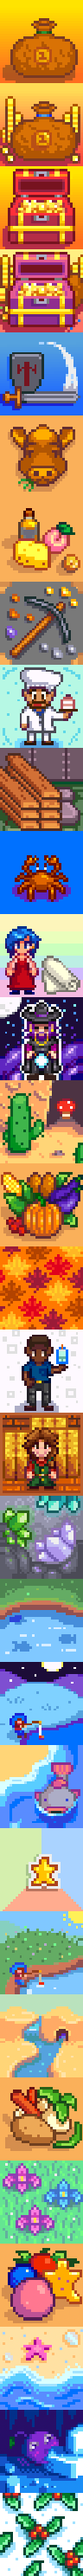
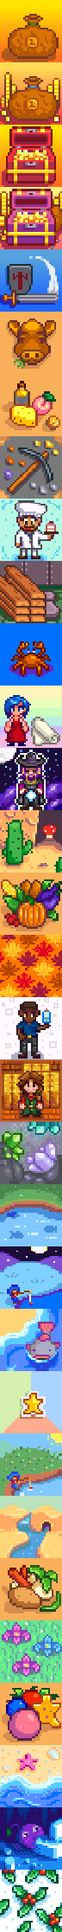
QA visual changes + escaping regex symbols in query string

diff --git a/src/css/bundleIcons.css b/src/css/bundleIcons.css
@@ -1,6 +1,6 @@
 .bundle-icon {
-    width: 96px;
-    height: 96px;
+    width: 72px;
+    height: 72px;
     flex-shrink: 0;
 
     background: url('../assets/bundle_icons.png');
@@ -8,125 +8,125 @@
 }
 
 .bg-2500_Bundle {
-    background-position-y: -0;
+    background-position-y: -0px;
 }
 
 .bg-5000_Bundle {
-    background-position-y: -96px;
+    background-position-y: -72px;
 }
 
 .bg-10000_Bundle {
-    background-position-y: -192px;
+    background-position-y: -144px;
 }
 
 .bg-25000_Bundle {
-    background-position-y: -288px;
+    background-position-y: -216px;
 }
 
 .bg-Adventurers_Bundle {
-    background-position-y: -384px;
+    background-position-y: -288px;
 }
 
 .bg-Animal_Bundle {
-    background-position-y: -480px;
+    background-position-y: -360px;
 }
 
 .bg-Artisan_Bundle {
-    background-position-y: -576px;
+    background-position-y: -432px;
 }
 
 .bg-Blacksmith_Bundle {
-    background-position-y: -672px;
+    background-position-y: -502px;
 }
 
 .bg-Chefs_Bundle {
-    background-position-y: -768px;
+    background-position-y: -576px;
 }
 
 .bg-Construction_Bundle {
-    background-position-y: -864px;
+    background-position-y: -648px;
 }
 
 .bg-Crab_Pot_Bundle {
-    background-position-y: -960px;
+    background-position-y: -720px;
 }
 
 .bg-Dye_Bundle {
-    background-position-y: -1056px;
+    background-position-y: -792px;
 }
 
 .bg-Enchanters_Bundle {
-    background-position-y: -1152px;
+    background-position-y: -864px;
 }
 
 .bg-Exotic_Foraging_Bundle {
-    background-position-y: -1248px;
+    background-position-y: -936px;
 }
 
 .bg-Fall_Crops_Bundle {
-    background-position-y: -1344px;
+    background-position-y: -1008px;
 }
 
 .bg-Fall_Foraging_Bundle {
-    background-position-y: -1440px;
+    background-position-y: -1080px;
 }
 
 .bg-Field_Research_Bundle {
-    background-position-y: -1536px;
+    background-position-y: -1152px;
 }
 
 .bg-Fodder_Bundle {
-    background-position-y: -1632px;
+    background-position-y: -1224px;
 }
 
 .bg-Geologists_Bundle {
-    background-position-y: -1728px;
+    background-position-y: -1296px;
 }
 
 .bg-Lake_Fish_Bundle {
-    background-position-y: -1824px;
+    background-position-y: -1368px;
 }
 
 .bg-Night_Fishing_Bundle {
-    background-position-y: -1920px;
+    background-position-y: -1440px;
 }
 
 .bg-Ocean_Fish_Bundle {
-    background-position-y: -2016px;
+    background-position-y: -1512px;
 }
 
 .bg-Quality_Crops_Bundle {
-    background-position-y: -2112px;
+    background-position-y: -1584px;
 }
 
 .bg-River_Fish_Bundle {
-    background-position-y: -2208px;
+    background-position-y: -1656px;
 }
 
 .bg-Specialty_Fish_Bundle {
-    background-position-y: -2304px;
+    background-position-y: -1728px;
 }
 
 .bg-Spring_Crops_Bundle {
-    background-position-y: -2400px;
+    background-position-y: -1800px;
 }
 
 .bg-Spring_Foraging_Bundle {
-    background-position-y: -2496px;
+    background-position-y: -1872px;
 }
 
 .bg-Summer_Crops_Bundle {
-    background-position-y: -2592px;
+    background-position-y: -1944px;
 }
 
 .bg-Summer_Foraging_Bundle {
-    background-position-y: -2688px;
+    background-position-y: -2016px;
 }
 
 .bg-The_Missing_Bundle {
-    background-position-y: -2784px;
+    background-position-y: -2088px;
 }
 
 .bg-Winter_Foraging_Bundle {
-    background-position-y: -2880px;
+    background-position-y: -2160px;
 }

diff --git a/src/components/SearchMode.js b/src/components/SearchMode.js
@@ -52,6 +52,8 @@ export class SearchMode extends Component {
     fetchItems(queryString) {
 
         if (queryString !== '') {
+
+            queryString = escapeRegex(queryString);
             let results = [];
             let regex = new RegExp(queryString, 'gi');
 
@@ -88,7 +90,7 @@ export class SearchMode extends Component {
                     {
                         this.state.resultBag.map((element, index) =>
                             <div
-                                className={`${buildClassName(element.name)} result-item`}
+                                className={`${buildClassName(element.name)} result-item smooth`}
                                 key={index}
                                 onClick={() => this.props.openModal(element.id)}>
                             </div>
@@ -98,6 +100,10 @@ export class SearchMode extends Component {
             </div>
         )
     }
+}
+
+function escapeRegex(string) {
+    return string.replace(/[-\/\\^$*+?.()|[\]{}]/g, '\\$&');
 }
 
 const mapStateToProps = () => {

diff --git a/src/components/Bundle.js b/src/components/Bundle.js
@@ -51,7 +51,9 @@ export class Bundle extends Component {
             rewardElement =
                 <div className="bundle-reward-wrapper">
                     <span className="bundle-reward smooth" onClick={() => this.props.openModal(reward.globalID)}>
-                        <div className={`sprite ${buildClassName(reward.name)}`}></div>
+                        <div className="sprite-wrapper">
+                            <div className={`${buildClassName(reward.name)}`}></div>
+                            </div>
                         <div className="reward-text-wrapper">
                             <span className="bundle-reward-text">{reward.name}</span>
                             <span className="reward-count">({reward.itemCount}x)</span>

diff --git a/src/css/bundle.css b/src/css/bundle.css
@@ -80,18 +80,17 @@
 }
 
 .bundle-item .reward-text-wrapper {
-    margin-left: 8px;
-    display: flex;
-    flex-direction: column;
+    margin-left: 4px;
     cursor: pointer;
 }
 
 .bundle-item .bundle-reward-text {
-    font-size: 16px;
+    font-size: 12px;
+    margin-right: 4px;
 }
 
 .bundle-item .reward-count {
-    font-size: 12px;
+    font-size: 10px;
     font-weight: 300;
 }
 
@@ -106,3 +105,16 @@
     overflow-x: hidden;
 }
 /* END GAMBIARRA */
+
+.sprite-wrapper {
+    position: relative;
+    width: 24px;
+    height: 24px;
+}
+
+.sprite-wrapper > * {
+    position: absolute;
+    top: 50%;
+    left: 50%;
+    transform: translate(-50%, -50%) scale(0.5);
+}

diff --git a/src/css/header.css b/src/css/header.css
@@ -2,13 +2,14 @@
     position: relative;
     box-shadow: 2px 2px 4px 2px rgba(0,0,0,.14);
 
-    background-color: var(--surface);
+    background-color: var(--primary);
 }
 
 .header-bar .settings-button {
     padding: 4px 0 2px 0;
     display: flex;
     justify-content: space-between;
+    fill: var(--onPrimary);
 }
 
 .header-bar .settings-button svg {
@@ -100,7 +101,9 @@
     width: 100%;
     box-shadow: 2px 2px 4px 2px rgba(0,0,0,.14);
 
-    background-color: var(--surface);
+    background-color: var(--primary);
+    color: var(--onPrimary);
+    fill: var(--onPrimary);
 }
 
 .header-bar .sidebar-header-wrapper {

diff --git a/src/css/spritesheets/sprites48px.css b/src/css/spritesheets/sprites48px.css
@@ -1023,7 +1023,7 @@
     background: url('../../assets/spritesheets/sprites48px.png') -0 -8097px;
 }
 
-.bg-Dish_O_The_Sea {
+.bg-Dish_o_The_Sea {
     width: 48px; height: 48px;
     background: url('../../assets/spritesheets/sprites48px.png') -0 -8145px;
 }
